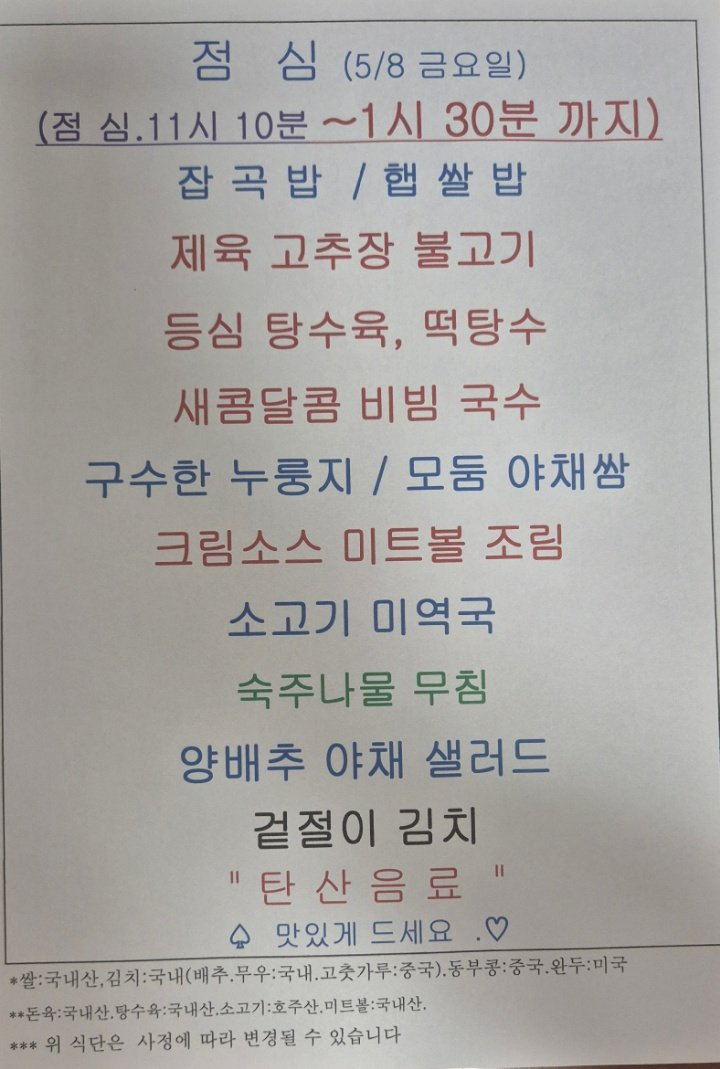
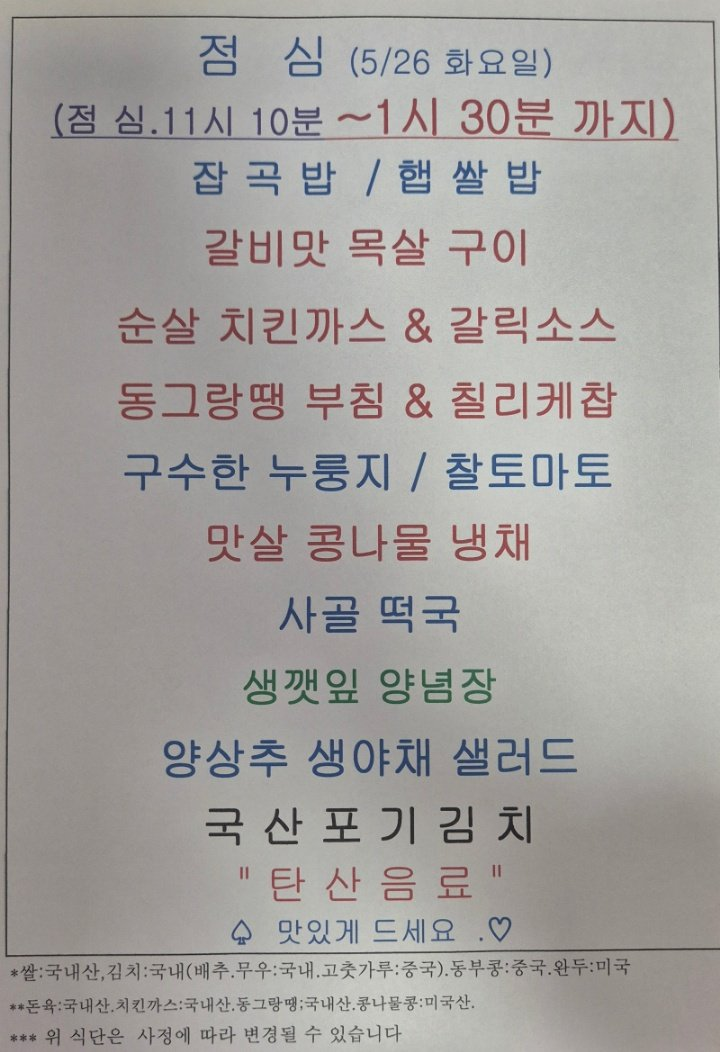
Update menu board assets

diff --git a/menu-today/index.html b/menu-today/index.html
@@ -209,7 +209,7 @@
 
     <section class="meta-bar">
       <div class="meta-card"><div class="meta-label">기준 날짜</div><div class="meta-value">2026년 5월 26일 화요일</div></div>
-      <div class="meta-card"><div class="meta-label">최종 가져온 시간</div><div class="meta-value">2026-05-26 09:12:52</div></div>
+      <div class="meta-card"><div class="meta-label">최종 가져온 시간</div><div class="meta-value">2026-05-26 09:33:57</div></div>
       <div class="meta-card"><div class="meta-label">확인 완료</div><div class="meta-value">10개 식당</div></div>
       <div class="meta-card"><div class="meta-label">준비중</div><div class="meta-value">3개 채널</div></div>
     </section>
@@ -255,7 +255,7 @@
             <div class="sub">디폴리스지식산업센터</div>
           </div>
         </div>
-        <div class="menu-inline-image"><img src="./images/dipolis.png" alt="디폴리스 구내식당 식단 이미지"></div><div class="menu-section"><div class="menu-section-title">중식</div><ul><li>제육 고추장 불고기</li><li>등심 탕수육, 떡탕수</li><li>새콤달콤 비빔 국수</li><li>구수한 누룽지 / 모듬 야채쌈</li><li>크림소스 미트볼 조림</li><li>소고기 미역국</li><li>숙주나물무침</li><li>양배추 야채 샐러드</li><li>겉절이 김치</li><li>탄산음료</li></ul></div>
+        <div class="menu-inline-image"><img src="./images/dipolis.png" alt="디폴리스 구내식당 식단 이미지"></div><ul><li>갈비맛 목살 구이</li><li>동크랑 부침 &amp; 질리케잡</li><li>구수한 =SX / 찰토마토</li><li>맛살 콩나물 냉채</li><li>사골 떡국</li><li>양상추 생야채 샐러드</li><li>맛있게 드세요 ^</li><li>*** 위 식단은 사정에 따라 변경될 수 있습니다</li><li>주시 / 잘도마도</li><li>맛살 콩나물 냉재</li></ul>
       </article>
 
       <article class="restaurant-card">
@@ -295,7 +295,7 @@
             <div class="sub">에이스테크노타워10차</div>
           </div>
         </div>
-        <div class="menu-inline-image"><img src="./images/thefoodsketch.png" alt="더푸드스케치 식단 이미지"></div><ul><li>소고기장터국밥</li><li>제육볶음</li><li>수제후라이드치킨</li><li>명이버섯개란전</li><li>온두부 / 김치볶음</li><li>콩나물무침</li><li>삐 오이지무침</li><li>가든샐러드 / 드레싱</li><li>음료</li></ul>
+        <div class="menu-inline-image"><img src="./images/thefoodsketch.png" alt="더푸드스케치 식단 이미지"></div><ul><li>소고기장터국밥</li><li>제육볶음</li><li>수제후라이드치킨</li><li>명이버섯개란전</li><li>온두부 / 김치볶음</li><li>취나물무침</li><li>삐 오이지무침</li><li>가든샐러드 / 드레싱</li><li>음료</li></ul>
       </article>
 
       <article class="restaurant-card">
@@ -315,7 +315,7 @@
             <div class="sub">SJ테크노빌</div>
           </div>
         </div>
-        <div class="menu-inline-image"><img src="./images/sj-weekly-menu.png" alt="에스제이 구내식당 식단 이미지"></div><div class="menu-section"><div class="menu-section-title">중식</div><ul><li>백미밥 / 잡곡밥</li><li>달콤옥수수볼튀김</li><li>매콤비빔막국수</li><li>보쌈무김치</li><li>배추김치</li><li>그린샐러드</li><li>추가찬2종</li><li>달콤옥수수불튀김</li><li>배주김치</li><li>시금치된장국</li></ul></div><div class="menu-section"><div class="menu-section-title">석식</div><ul><li>잡곡밥</li><li>삼색계란찜</li><li>계절나물</li><li>배추김치</li><li>그린샐러드</li><li>나물</li></ul></div><div class="menu-section"><div class="menu-section-title">플러스메뉴</div><ul><li>계란후라이 / 토스트&amp;딸기잼</li><li>셀프 라면</li><li>탄산음료, 숭늉, 매실차</li></ul></div>
+        <div class="menu-inline-image"><img src="./images/sj-weekly-menu.png" alt="에스제이 구내식당 식단 이미지"></div><div class="menu-section"><div class="menu-section-title">중식</div><ul><li>어묵김치찌개</li><li>백미밥 / 잡곡밥</li><li>김말이떡강정</li><li>콩나물파채무침</li><li>배추김치</li><li>그린샐러드</li><li>추가찬2종</li><li>삼겹</li><li>공나물파채무침</li><li>그린샐</li><li>어묵김치쩌개</li><li>깅말이강정</li><li>어묵</li><li>김치찌개</li></ul></div><div class="menu-section"><div class="menu-section-title">석식</div><ul><li>북어국</li><li>잡곡밥</li><li>곤치즈고로케 * AA</li><li>삼색계란찜</li><li>매콤김치전</li><li>계절나물</li><li>배추김치</li><li>그린샐러드</li><li>삐슬자</li><li>닭볶음탕</li><li>콘치즈고로케 * 소스</li><li>라이 / 토스트 &amp; 딸기잼</li><li>곤치즈고로케 + AA</li><li>계젊나물</li><li>계란후라이 / 로스트 &amp; 말기잼</li><li>탄잔음료, 숭흥, 빼슬자</li></ul></div><div class="menu-section"><div class="menu-section-title">플러스메뉴</div><ul><li>계란후라이 / 토스트&amp;딸기잼</li><li>셀프 라면</li><li>탄산음료, 숭늉, 매실차</li></ul></div>
       </article>
     </section>
 
